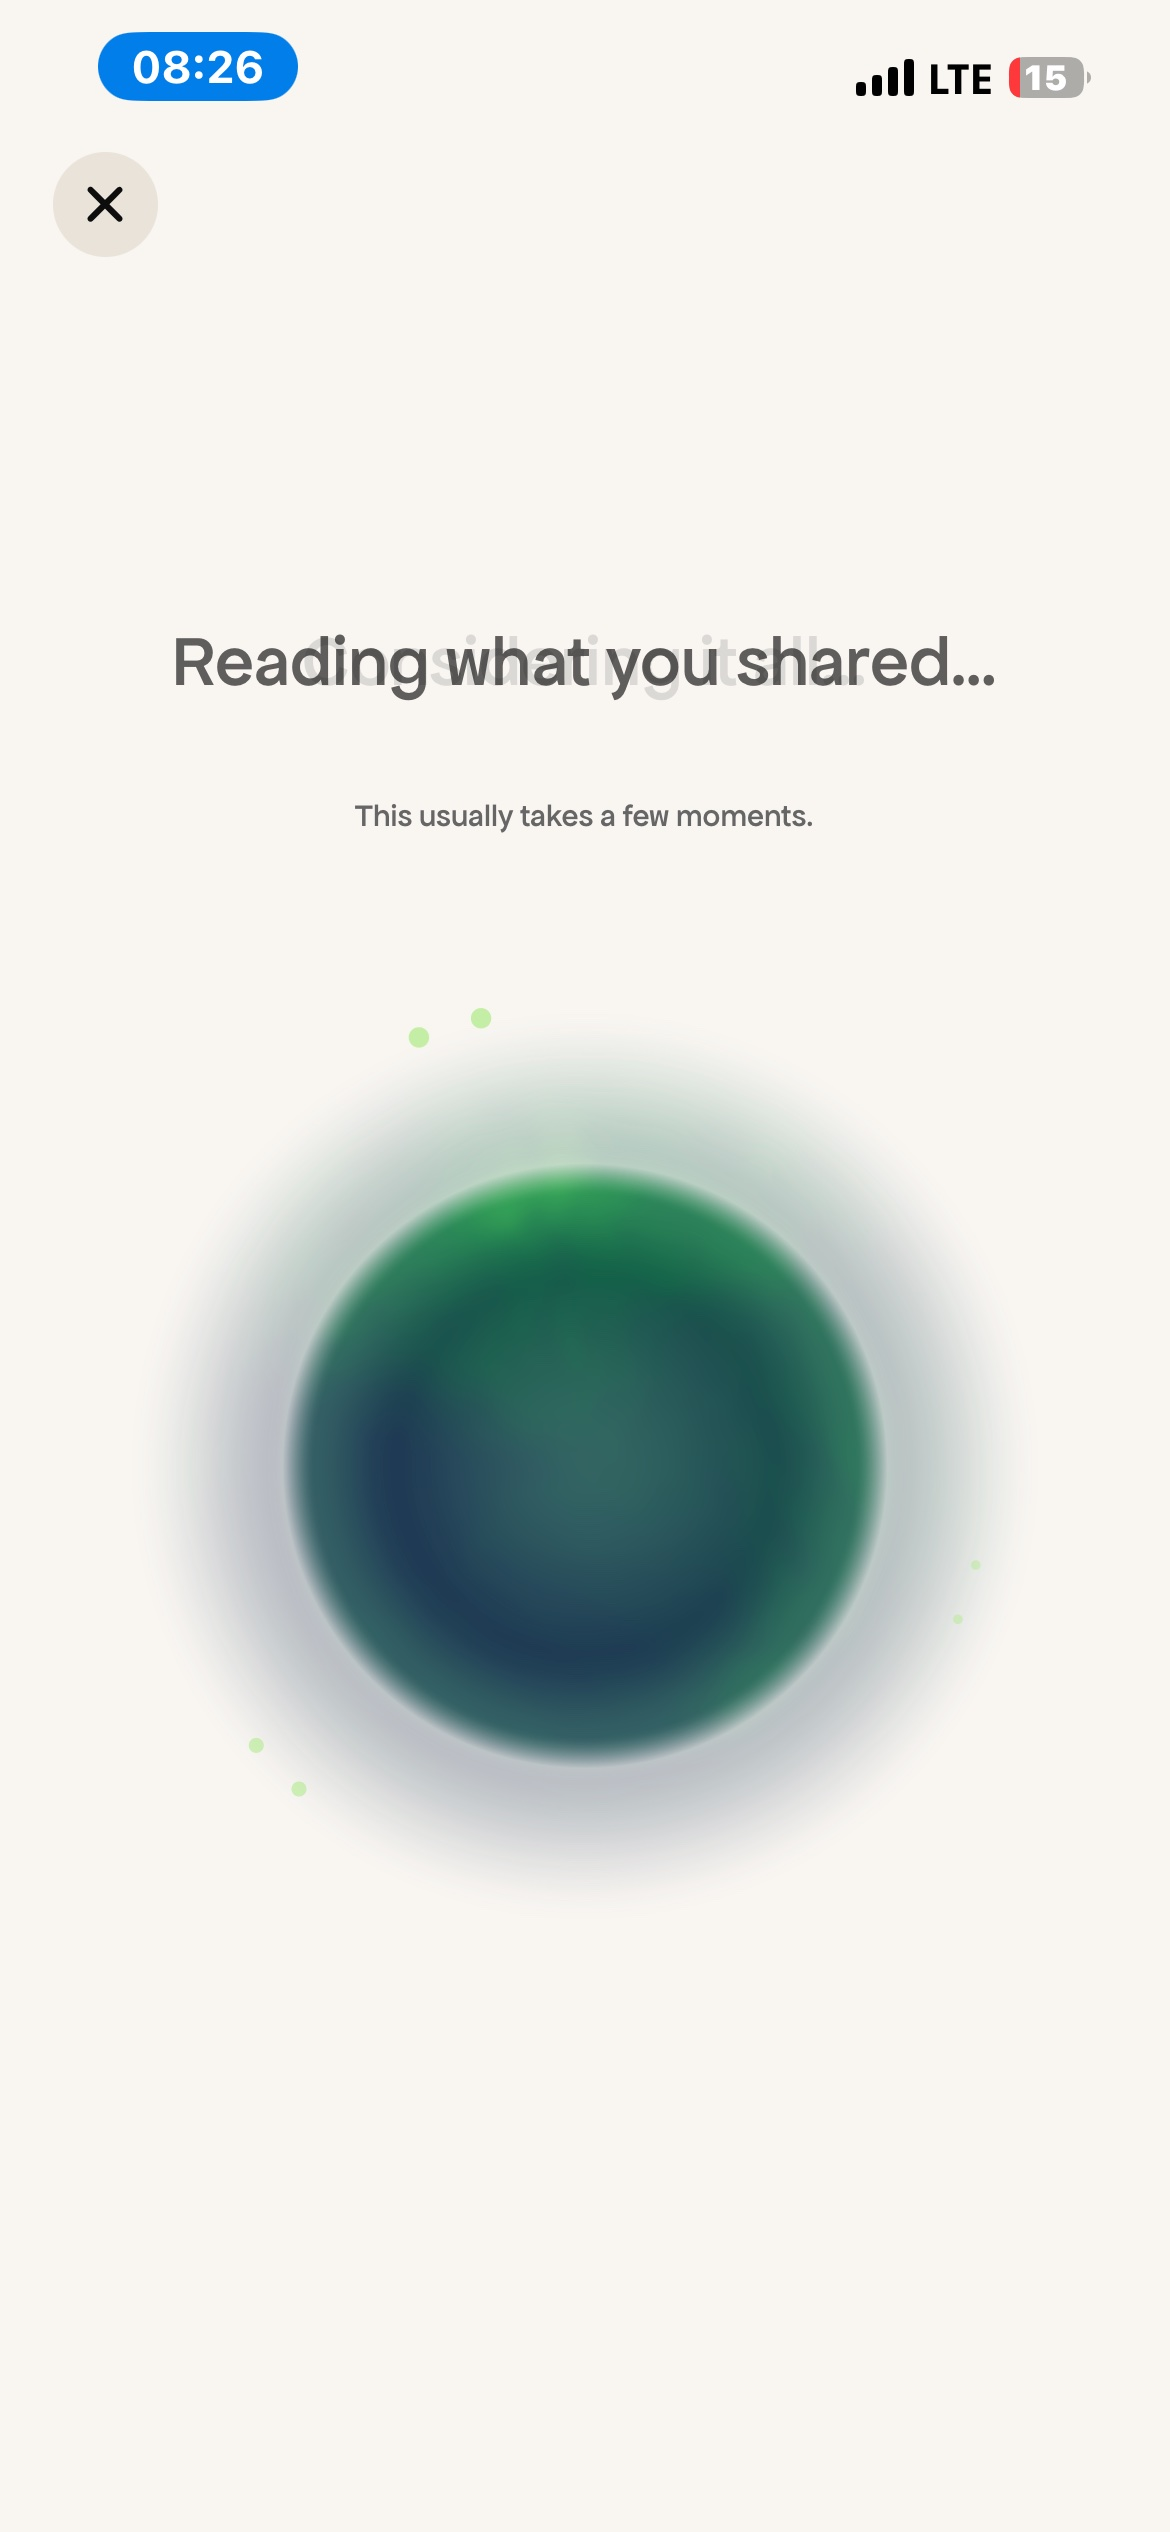
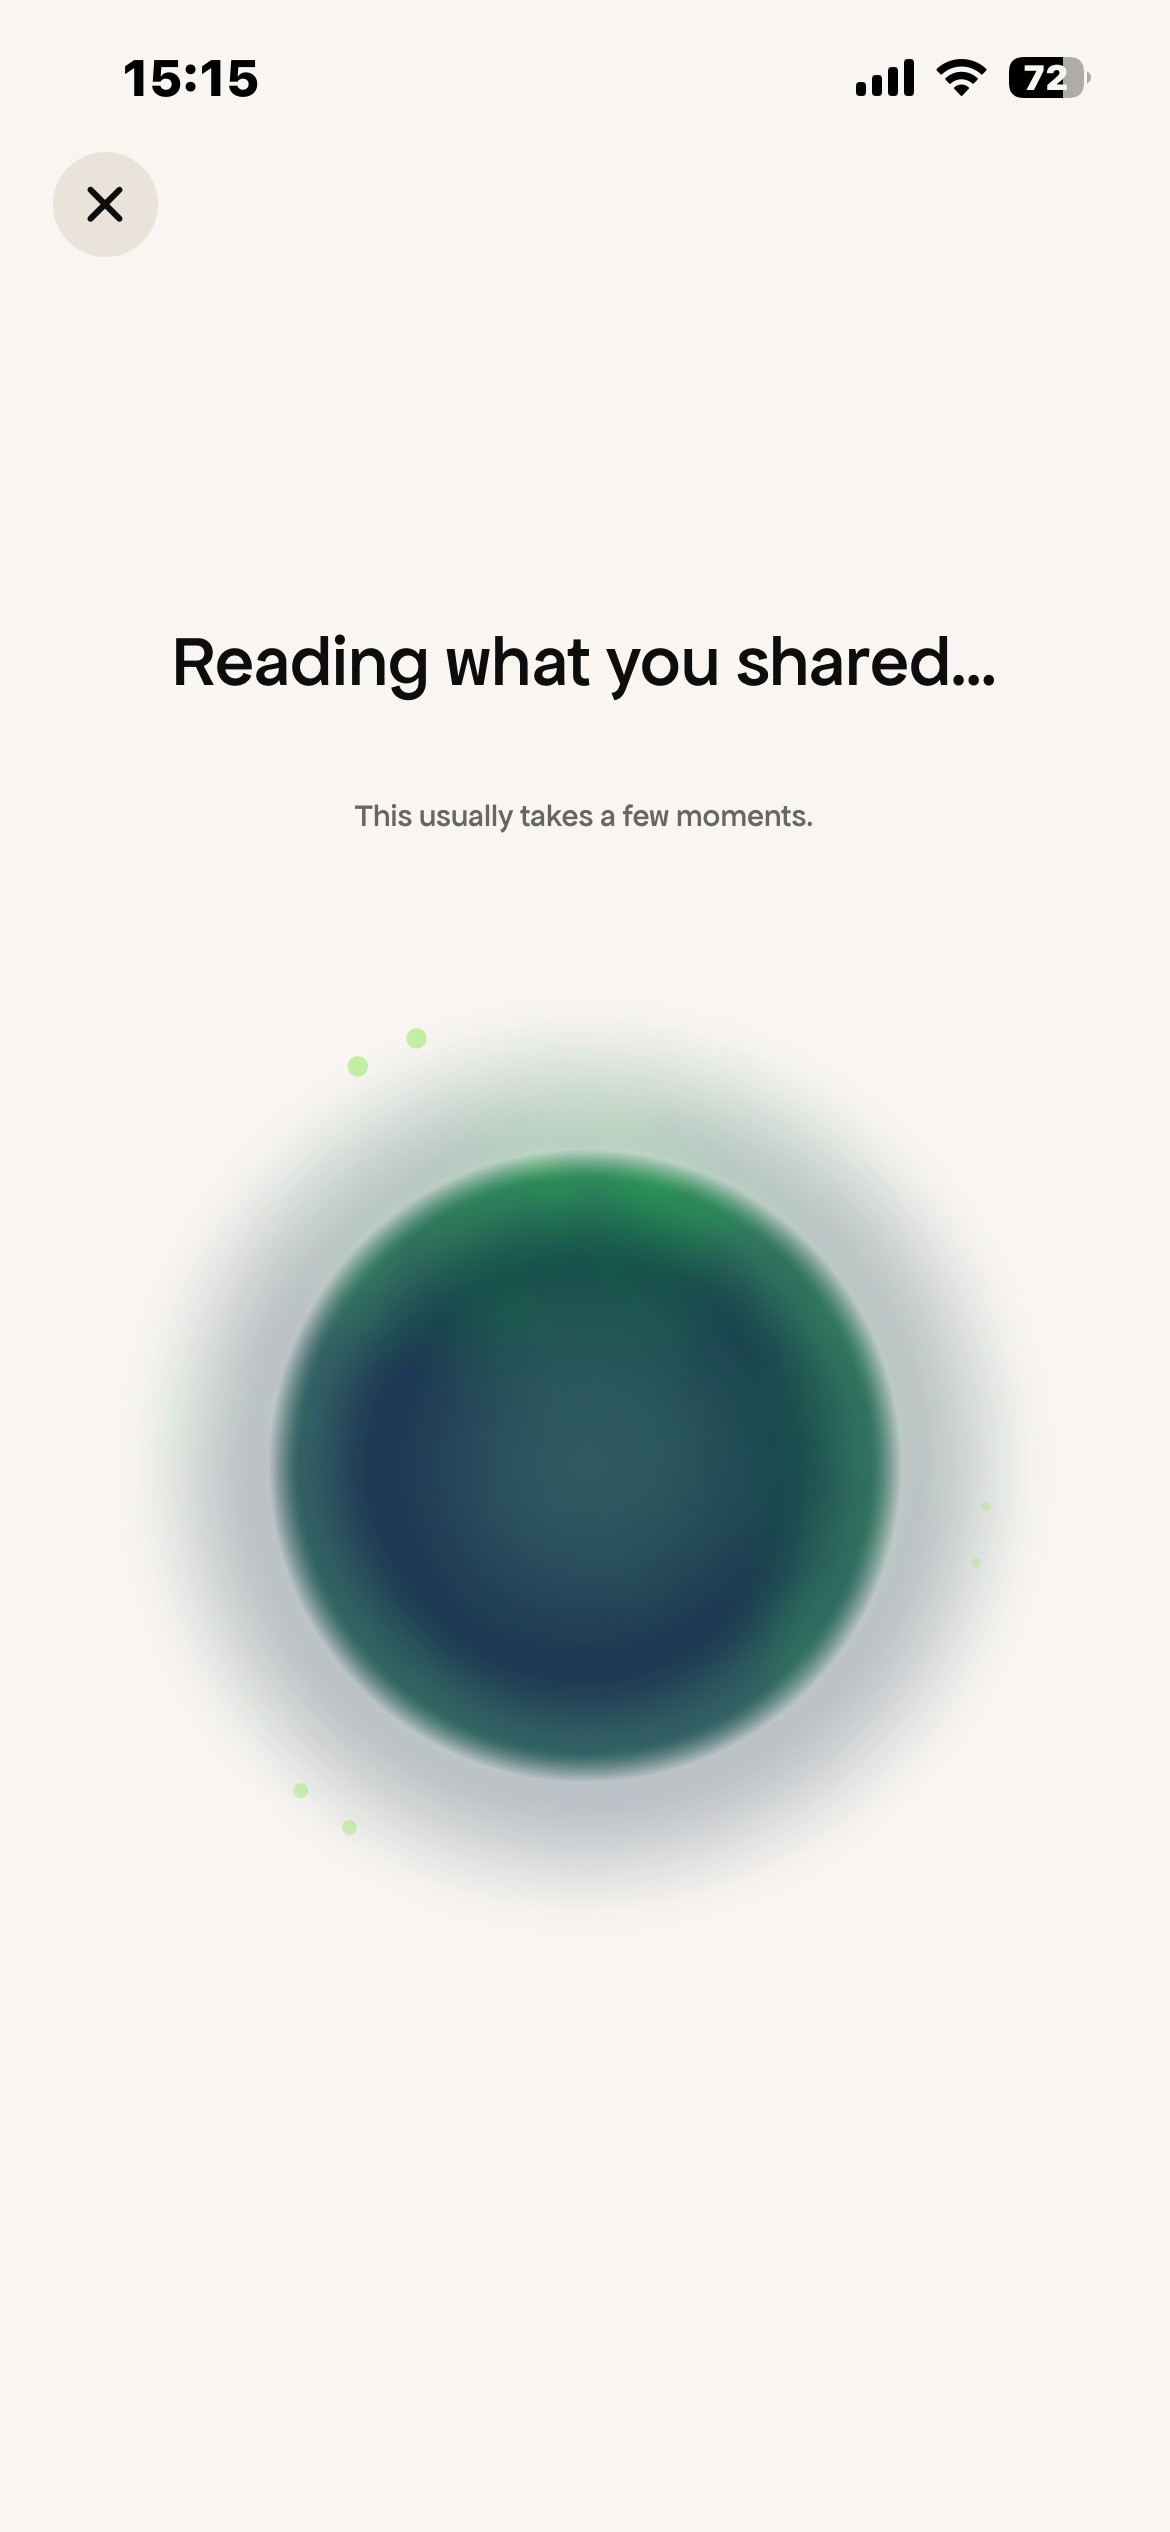
Swap the journey to the fuller captured run
The second run captures the whole flow, including the depth step the
first one missed, so the section now runs four beats: tell it, it names
where you are, choose the depth, read. The confession is the more
universal one — knowing the Word but not feeling it true — and the reply
lands harder for it.

Excerpt swapped to the Ecclesiastes passage from that devotional. Clock
still tells the truth: 15:14 to 15:16.

diff --git a/lib/content.ts b/lib/content.ts
@@ -53,9 +53,9 @@ export const STORY = [
 ] as const;
 
 /**
- * The tailored-devotional journey, shown with real captures from a real run —
- * LTE, 15% battery, honest confession and all. We seek God randomly; the
- * point is honesty, not polish, so these screenshots stay as taken.
+ * The tailored-devotional journey, shown with real captures from one real run
+ * — WiFi, 72% battery, an honest confession and all. We seek God randomly; the
+ * point is honesty, not polish, so these screenshots stay exactly as taken.
  */
 export const JOURNEY = {
   eyebrow: "How it actually happens",
@@ -68,29 +68,36 @@ export const JOURNEY = {
       caption:
         "Whatever you are feeling or facing, in your own words. Messy is fine.",
       image: "/screenshots/isit-journey-share.jpg",
-      time: "08:25",
+      time: "15:14",
     },
     {
       label: "It names where you are",
       caption:
         "Before the devotional, it reflects back what you shared — so you know it actually listened.",
       image: "/screenshots/isit-journey-named.jpg",
-      time: "08:25",
+      time: "15:15",
+    },
+    {
+      label: "You choose the depth",
+      caption:
+        "A quick moment or a deeper sit. The devotional is written to the time you actually have.",
+      image: "/screenshots/isit-journey-time.jpg",
+      time: "15:15",
     },
     {
       label: "You read",
       caption:
         "A full devotional — title, scripture, reflection — written for that exact moment.",
       image: "/screenshots/isit-journey-read.jpg",
-      time: "08:27",
+      time: "15:16",
     },
   ],
-  timeNote: "Shared at 08:25. Reading by 08:27.",
+  timeNote: "Shared at 15:14. Reading by 15:16.",
   excerpt: {
     lead: "From that exact devotional:",
     text:
-      "A God who is not fickle does not toy. What can look like divine whiplash, from inside the pain, is often something else entirely: a world that is genuinely fallen, employers who make decisions for reasons that have nothing to do with your worth, an economy or circumstance that is simply broken in ways Scripture never denies. God opening a door doesn’t insulate that door from a fallen world’s storms. It means He was present in giving it, and He remains present in its loss.",
-    source: "Why Does It Feel Like God Won’t Let Me Be Happy?",
+      "Living in a broken world means loss visits the faithful and unfaithful alike. Ecclesiastes is unflinching about this — the same events happen to all. This isn’t a comforting truth in the moment, but it is a freeing one: suffering is not proof of divine rejection. It is proof of living in a world still groaning, waiting for restoration (Romans 8:22).",
+    source: "When God Feels Absent (Even Though You Know the Word)",
   },
 } as const;
 

diff --git a/components/sections/Journey.tsx b/components/sections/Journey.tsx
@@ -1,7 +1,7 @@
 /**
  * Journey — the tailored-devotional flow shown with real captures from one
  * real run. Story beat 2 makes the promise; this section is the proof. The
- * screenshots stay exactly as taken (LTE, 15% battery, 08:25 on the clock):
+ * screenshots stay exactly as taken (WiFi, 72% battery, 15:14 on the clock):
  * we seek God randomly, and honesty is the point.
  */
 import Phone from "@/components/ui/Phone";
@@ -21,8 +21,8 @@ export default function Journey() {
           {JOURNEY.intro}
         </p>
 
-        {/* The three steps, numbered */}
-        <div className="mt-14 grid gap-12 sm:grid-cols-3 sm:gap-6 lg:gap-10">
+        {/* The four steps, numbered */}
+        <div className="mt-14 grid gap-12 sm:grid-cols-2 sm:gap-8 lg:grid-cols-4 lg:gap-6">
           {JOURNEY.steps.map((step, i) => (
             <div key={step.label} className="flex flex-col">
               <Phone src={step.image} alt={step.label} className="max-w-[240px]" />
